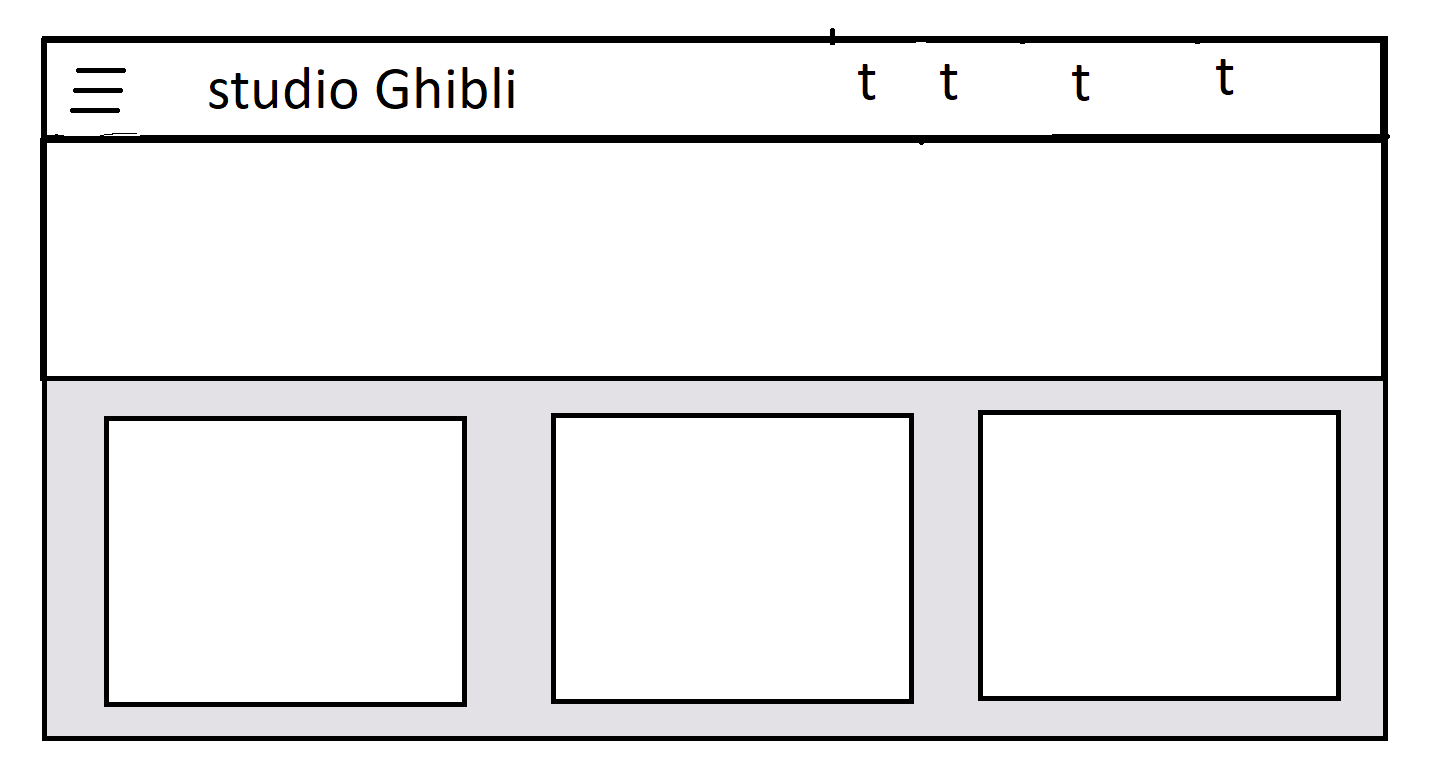
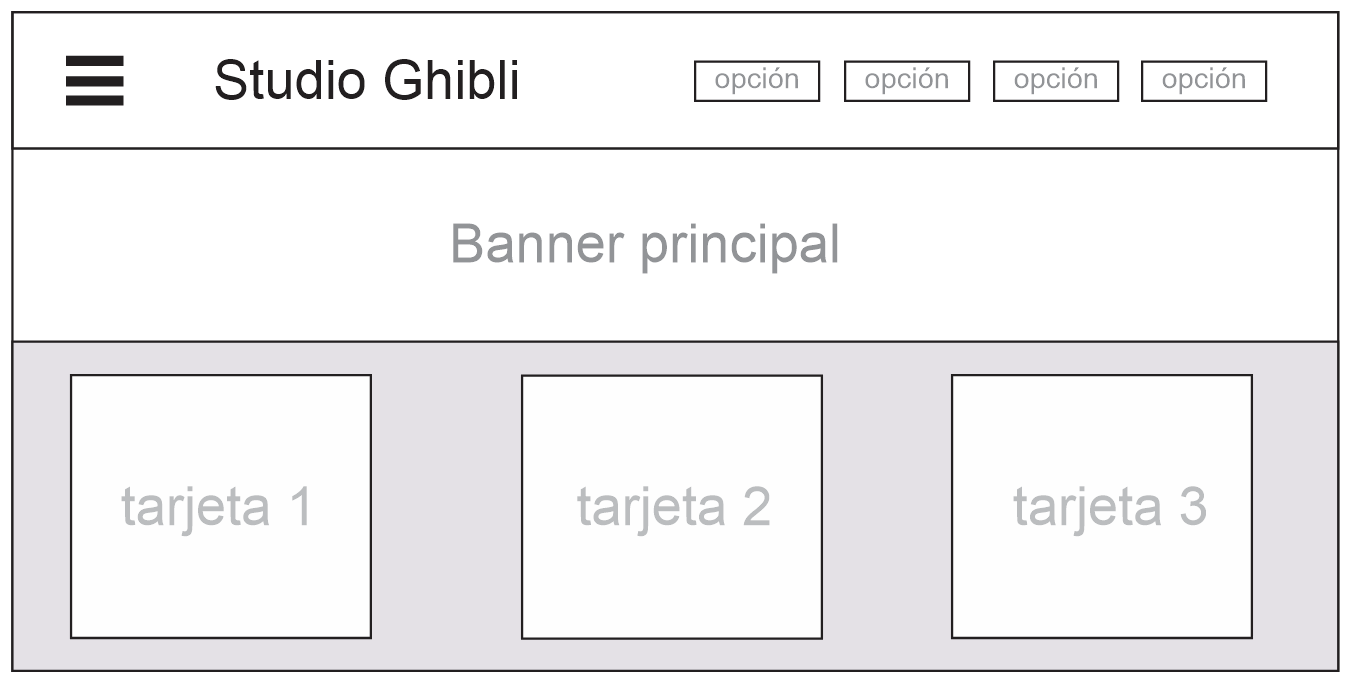
Cambiando Readme

Changed region(s): [[0.0, 0.0, 0.9956, 0.9853], [0.3111, 0.3079, 0.6222, 0.4003]]

diff --git a/src/main.js b/src/main.js
@@ -6,7 +6,6 @@ let moviesData = [];
 let charactersData = [];
 let locationsData = [];
 let vehiclesData = [];
-
 let currentPage = "movies";
 /*Separación*/
 let moviesHtml = [];
@@ -20,7 +19,6 @@ const charactersMenu = document.getElementById("characters");
 const locationsMenu = document.getElementById("locations");
 const vehiclesMenu = document.getElementById("vehicles");
 const curiousFactMenu = document.getElementById("curiousFact");
-
 const sorAtoZ = document.getElementById("btn1");
 
 // eventos
@@ -96,7 +94,7 @@ function setMoviesHtml(arrData) {
         <div class="card">
           <img
             src="${m.poster}"
-            alt=""
+            alt="Imagenes Peliculas"
           />
           <div class="cardText">
             <h2 class="filmTitle">${m.title}</h2>
@@ -116,7 +114,7 @@ function setCharactersHtml() {
       <div class="card">
         <img
           src="${p.img}"
-          alt=""
+          alt="Imagenes Personajes"
         />
         <div class="cardText">
           <h2 class="filmTitle">${p.name}</h2>
@@ -135,7 +133,7 @@ function setLocationsHtml() {
       <div class="card">
         <img
           src="${l.img}"
-          alt=""
+          alt="Imagenes Localizaciones"
         />
         <div class="cardText">
           <h2 class="filmTitle">${l.name}</h2>
@@ -151,7 +149,7 @@ function setVehiclesHtml() {
       <div class="card">
         <img
           src="${v.img}"
-          alt=""
+          alt="Imagenes vehiculos"
         />
         <div class="cardText">
           <h2 class="filmTitle">${v.name}</h2>
@@ -178,6 +176,7 @@ function blankHtml() {
   vehiclesHtml = [];
   messageContainer.innerHTML = "";
 }
+/*Funciones que muestran peliculas, personajes,vehiculos, localizaciones y el dato curioso*/
 
 function showMovies(evt, data = ghibli.films) {
   console.log(data)
@@ -185,6 +184,8 @@ function showMovies(evt, data = ghibli.films) {
   setMoviesHtml(data);
   currentPage = "movies";
   container.innerHTML = moviesHtml.join("");
+  selectDirector.style.display = "block";
+  sorAtoZ.style.display = "block";
 }
 
 function showCharacters() {
@@ -192,6 +193,7 @@ function showCharacters() {
   setCharactersHtml();
   currentPage = "characters";
   container.innerHTML = charactersHtml.join("");
+  selectDirector.style.display = "none";
 }
 
 function showLocations() {
@@ -199,6 +201,7 @@ function showLocations() {
   setLocationsHtml();
   currentPage = "locations";
   container.innerHTML = locationsHtml.join("");
+  selectDirector.style.display = "none";
 }
 
 function showVehicles() {
@@ -206,6 +209,7 @@ function showVehicles() {
   setVehiclesHtml();
   currentPage = "vehicles";
   container.innerHTML = vehiclesHtml.join("");
+  selectDirector.style.display = "none";
 }
 
 function showCuriousFact() {
@@ -215,13 +219,20 @@ function showCuriousFact() {
   messageContainer.innerHTML = `
   <div>
     <div class="card">
-      <div class="cardText">
-        <h2 class="filmTitle">${getAverage(moviesData)}</h2>
-      </div>
+        <h2 class="filmTitle--curiousFact">Las películas de Studio Ghibli tienen en promedio un puntaje de ${getAverage(moviesData)} en Rotten Tomatoes
+        </h2>
+    </div>
+    <div class="container__curiousFactImage">
+    <img
+    src="./imagenes/ImagenDatoCurioso.webp" class="curiousFactImage"
+    alt="Imagen Dato Curioso"
+  />
     </div>
   </div>
 `;
   setMoviesHtml(moviesData);
+  selectDirector.style.display = "none";
+  sorAtoZ.style.display = "none";
 }
 
 setData();

diff --git a/src/style.css b/src/style.css
@@ -334,3 +334,6 @@ select {
     margin-top: 20px;
   }
 }
+
+img[src*='#center'] 
+{ display: block; margin: auto; }

diff --git a/README.md b/README.md
@@ -1,4 +1,4 @@
-#  📽🏯 Data Lovers Project - Studio Ghibli 🏯📽
+#  🏯 Data Lovers Project - Studio Ghibli 🏯📽
 
 ## Índice
 
@@ -29,10 +29,9 @@ Establecimos los criterios de aceptación para cada historia, buscando una conco
 4. Muestra información sobre las locaciones y los vehículos de las animaciones.
 5. Ordena la información mostrada en cada categoría de la A a la Z.
 
-
 ## 3. Diseño de la interfaz de usuario
 
-Para el desarrollo de nuestra interfaz procuramos sostener el diseño inicial y replicarlo en la plataforma.
+Para el desarrollo de nuestra interfaz procuramos sostener el prototipo de alta fidelidad y replicarlo en la plataforma, teniendo un producto muy similar al planteado.
 
 #### Prototipo de baja fidelidad
 
@@ -40,7 +39,10 @@ Para el desarrollo de nuestra interfaz procuramos sostener el diseño inicial y 
 
 #### Prototipo de alta fidelidad
 
-![.image](./prototipo-alta-fidelidad-movil.PNG)
+
+![.image](./prototipo-alta-fidelidad-movil.PNG#center)
+
+
 
 ## 4. Testeos de usabilidad
 
